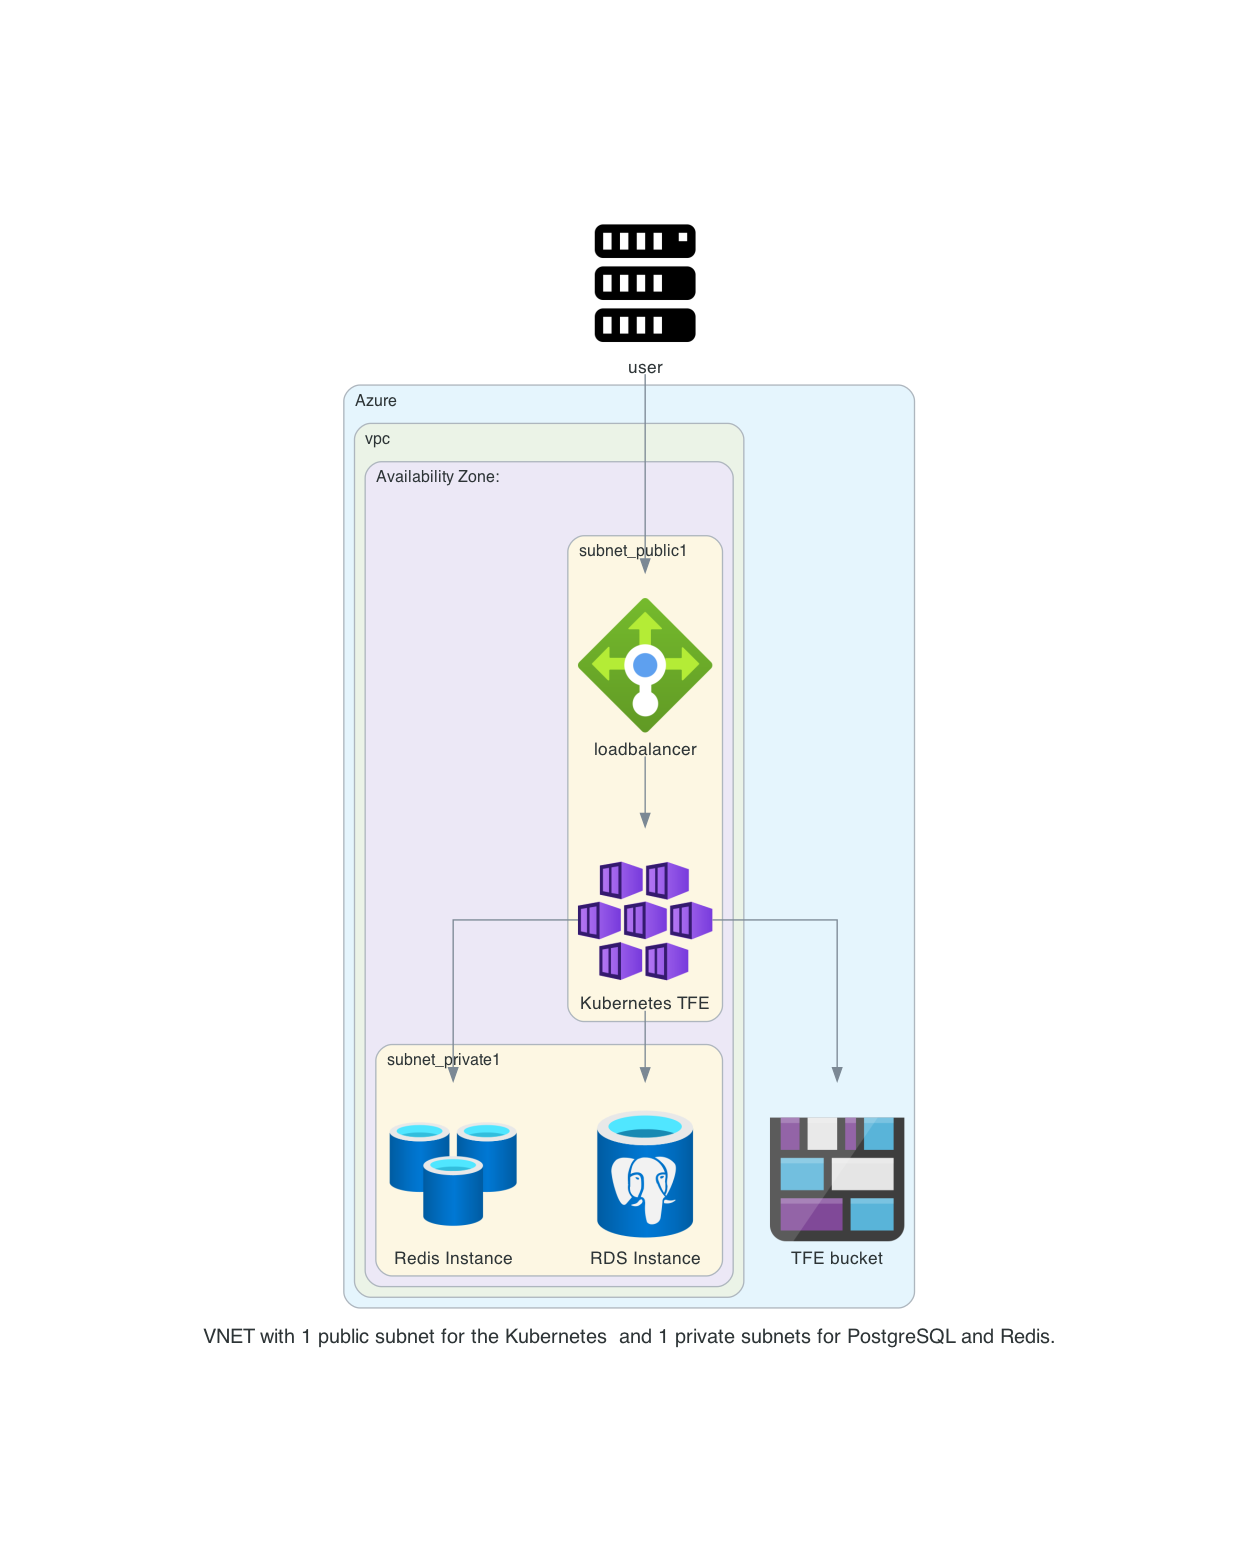
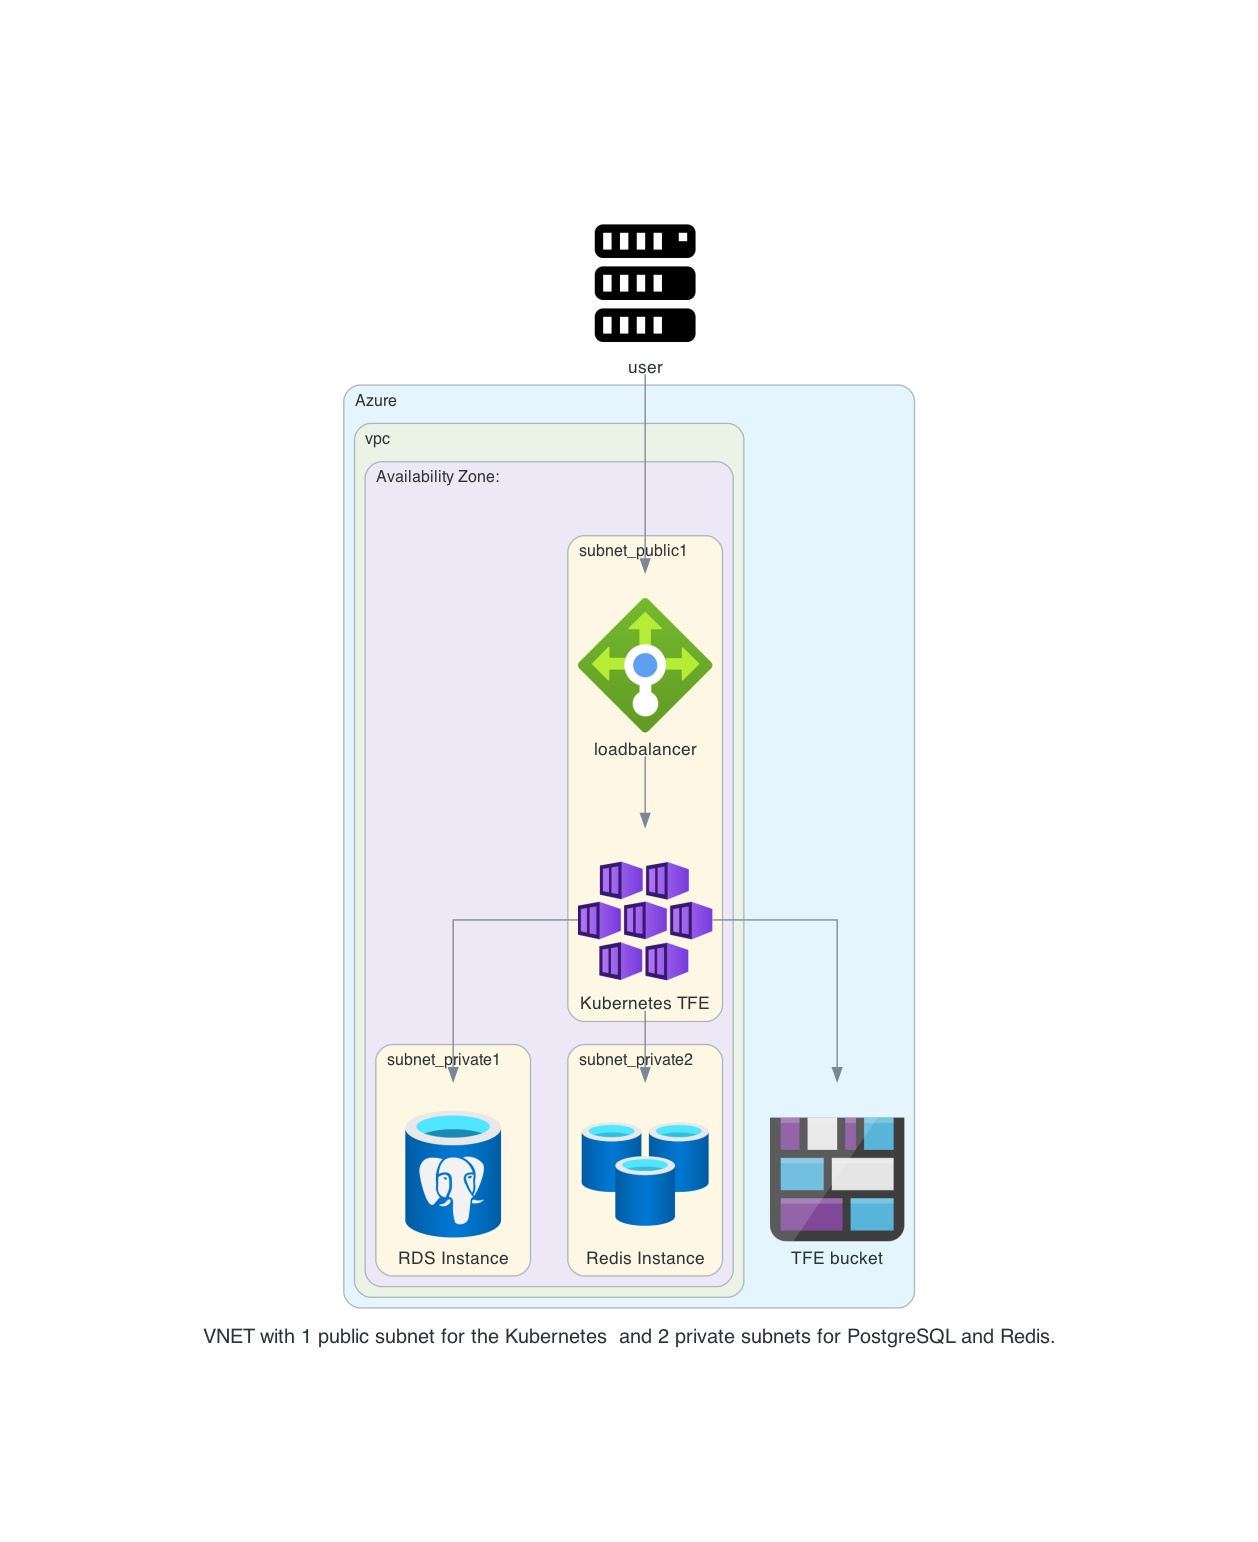
all the manual steps

Changed region(s): [[0.31, 0.6848, 0.589, 0.8405]]

diff --git a/diagram/diagram_tfe_fdo_azure_external_kubernetes.py b/diagram/diagram_tfe_fdo_azure_external_kubernetes.py
@@ -12,7 +12,7 @@ from diagrams.azure.network import LoadBalancers
 
 
 # Variables
-title = "VNET with 1 public subnet for the Kubernetes \ and 1 private subnets for PostgreSQL and Redis."
+title = "VNET with 1 public subnet for the Kubernetes \ and 2 private subnets for PostgreSQL and Redis."
 outformat = "png"
 filename = "diagram_tfe_fdo_azure_external_kubernetes"
 direction = "TB"
@@ -39,7 +39,8 @@ with Diagram(
                     Kubernetes_TFE = KubernetesServices("Kubernetes TFE")
                 with Cluster("subnet_private1"):
                      postgresql = DatabaseForPostgresqlServers("RDS Instance")
-                     Redis = CacheForRedis("Redis Instance")
+                with Cluster("subnet_private2"):
+                     Redis = CacheForRedis("Redis Instance")     
                
     # Diagram
 

diff --git a/manual_steps/README.md b/manual_steps/README.md
@@ -1,176 +1,187 @@
+# Manual steps
 
-# create a resource group
+These are the manual steps using the Azure Portal to create the Kubernetes environment where the TFE container can be deployed
 
-- Create a resource group where all the resources will fall under
-![](media/20221105164701.png)    
-![](media/20221105164714.png)    
-
-- Create a network 
-![](media/20221105164838.png)    
-![](media/20221105165042.png)    
-![](media/20221108092404.png)    
-![](media/20221105165638.png)    
-![](media/20221105165413.png)    
-![](media/20221105165510.png)    
-![](media/20221105165523.png)    
-![](media/20221105165757.png)    
-![](media/20221105165815.png)    
-
-- create an network security group   
-![](media/20221105171004.png)    
-![](media/20221105171114.png)    
-add some rules allow https, ssh and 8800 5432  
-![](media/20221105173023.png)    
-![](media/20221108093129.png)    
+## diagram
+Here is a diagram of what we create
 
 
 
+# Create the Azure infrastructure
+
+- Create a resource group where all the resources will fall under  
+![](media/20240123152619.png)   
+![](media/20240123152643.png)   
+
+- Create a network   
+![](media/20240123152737.png)  
+![](media/20240123152803.png)  
+![](media/20240123153251.png)   
+![](media/20240123153355.png)   
+
+
+- create an network security group     
+![](media/20240123153453.png)   
+![](media/20240123153504.png)   
+  - Go to the inbound security rules and add the following ports 
+    - 22 ssh
+    - 80 http
+    - 443 https
+    - 5432 postgresql
+    - 6379 redis non-ssl
+    - 6380 redis ssl    
+The overview should look like the following   
+![](media/20240123154517.png)   
 
 - create a NAT gateway   
-![](media/20221105171257.png)    
-![](media/20221105171326.png)   
-![](media/20221105171421.png)    
-![](media/20221105171441.png)    
+![](media/20240123154550.png)   
+![](media/20240123154611.png)   
+![](media/20240123154639.png)   
 
-- give all the subnets the network security group
-![](media/20221105171724.png)    
+- create subnets  
+public subnet  
+![](media/20240123154823.png)  
+private1 subnet  
+![](media/20240123154910.png)  
+![](media/20240123155716.png)  
+private2 subnet  
+![](media/20240123160428.png)  
+overview  
+![](media/20240123160458.png)   
 
 
-- PostgreSQL Flex  
-![](media/20221108093908.png)    
-![](media/20221108094039.png)    
-![](media/20221108094238.png)    
-![](media/20221108094951.png)    
-![](media/20221108095007.png)    
-![](media/20221108095023.png)    
+- PostgreSQL Flex   
+![](media/20240123155120.png)  
+![](media/20240123155140.png)  
+![](media/20240123155900.png)  
+![](media/20240123155814.png)   
+add a database called tfe  
+![](media/20240123164756.png)  
+
 
 - After the database is create you need to change the following because of this article https://support.hashicorp.com/hc/en-us/articles/4548903433235-Terraform-Enterprise-External-Services-mode-with-Azure-Database-for-PostgreSQL-Flexible-Server-Failed-to-Initialize-**Plugins**
-![](media/20221108103715.png)    
 Select CITEXT, HSTORE, and UUID-OSSP  
-![](media/20221108103911.png)  
+![](media/20240123161355.png)  
 Result should be    
-![](media/20221108103849.png)    
-![](media/20221108104017.png)    
+![](media/20240123161412.png)  
 
-
-
+- Redis Cache  
+![](media/20240123160556.png)  
+![](media/20240123160709.png)  
+![](media/20240123160729.png)  
+![](media/20240123160740.png)   
 
 - Storage account   
-![](media/20221108095517.png)    
-![](media/20221108095556.png)    
-![](media/20221108103508.png)    
-![](media/20221108103545.png)    
-![](media/20221108103602.png)    
-![](media/20221108103621.png)   
-![](media/20221108104339.png)     
+![](media/20240123161829.png)  
+![](media/20240123161912.png)  
+![](media/20240123162045.png)  
+![](media/20240123162108.png)  
+![](media/20240123162132.png)  
+![](media/20240123162148.png)  
+
+
 - create a container   
-![](media/20221108103950.png)    
-![](media/20221108104128.png)    
+![](media/20240123162725.png)   
 
-- Virtual machine   
-![](media/20221108111017.png)    
-![](media/20221108111334.png)    
-![](media/20221108111423.png)    
-![](media/20221108111513.png)    
-![](media/20221108111540.png)    
-![](media/20221108111552.png)    
-![](media/20221108111615.png)    
-![](media/20221108111653.png)    
+save the keys and all   
+![](media/20240123162822.png)   
 
-- Make the DNS endpoint to this server in AWS console
-![](media/20221108112137.png)    
+- Create the Azure Kubernetes Service   
+![](media/20240123162923.png)  
+![](media/20240123163009.png)   
+![](media/20240123163132.png)  
+![](media/20240123163152.png)  
+![](media/20240123163206.png)  
+![](media/20240123163231.png)  
 
-- login to the virtual machine
+# deploying the TFE helm chart 
 
+- Make sure you can connect to the Kubernetes cluster
 ```
-ssh azureuser@52.233.240.242
+az aks get-credentials --resource-group tfe11-manual --name tfe11
 ```
-
-On the machine execute the following
-
+- check that you see the pods from all namespace. This should give some results
 ```
-sudo systemctl stop apparmor
-sudo systemctl disable apparmor
-
-pushd /var/tmp
-curl -o install.sh https://install.terraform.io/ptfe/stable
-bash ./install.sh no-proxy private-address=10.233.1.4 public-address=52.233.240.242
+kubectl get pods -A
 ```
-
-- You will be prompted to go to the installation screen
-![](media/20221108113116.png)   
-![](media/20221108113202.png)    
-![](media/20221108113242.png)    
-![](media/20221108113440.png)    
-- Go the the settings
-![](media/20221108113700.png)    
-![](media/20221108113752.png)    
-![](media/20221108113918.png)    
-![](media/20221108114537.png)    
-![](media/20221108114610.png)    
-![](media/20221108114624.png)  
-
-- Try a test run in a workspace from directory test_code
-
-
-
-### same steps except with a load balancer
-
-- Loadbalancer in azure is called a application gateway
-https://medium.com/@t.tak/build-https-support-load-balancer-on-azure-81e111e58d98
-
-Application gateway requires extra ports to be opened
-![](media/20221119094144.png)    
-
-![](media/20221119094209.png)    
-![](media/20221119094236.png)    
-![](media/20221119094350.png)    
-![](media/20221119094403.png)    
-![](media/20221119094952.png)    
-![](media/20221119095103.png)    
-![](media/20221119095123.png)    
-![](media/20221119095242.png)    
-![](media/20221119095308.png)    
-![](media/20221119095326.png)    
-Er moet ook een correct health probe worden gemaakt    
-
-![](media/20221119134143.png)  
-![](media/20221119134214.png)    
-
-On the machine execute the following
-
+- create the namespace
 ```
-sudo systemctl stop apparmor
-sudo systemctl disable apparmor
-
-pushd /var/tmp
-curl -o install.sh https://install.terraform.io/ptfe/stable
-bash ./install.sh no-proxy private-address=10.233.11.4
+kubectl create namespace terraform-enterprise
 ```
+- create the docker secret
+```
+kubectl create secret docker-registry terraform-enterprise --docker-server=images.releases.hashicorp.com --docker-username=terraform --docker-password="license_content_from_hashicorp" -n terraform-enterprise
+```
+- Have the yaml file with the correct values
+```
+replicaCount: 1
+tls:
+  certData: "xxxxxxx=="
+  keyData: "xxxxxxxx=="
+  caCertData: "xxxxxxx=="
+image:
+  repository: images.releases.hashicorp.com
+  name: hashicorp/terraform-enterprise
+  tag: v202312-1
+env:
+  variables:
+    TFE_HOSTNAME: tfe11.aws.munnep.com
+    TFE_IACT_SUBNETS: "0.0.0.0/0"
 
-
-
-
-
-
-
-
-
-
-
-certificates uit key vault
-
-// pem to pfx - also password
-openssl pkcs12 -export -out certificate.pfx -inkey private_key_pem -in server.crt
-
-
-
-
-
-
-
-
-
-
-// pem to cer
-openssl x509 -inform PEM -in fullchain.pem -outform DER -out certificate.cer
+    # Database Settings
+    TFE_DATABASE_USER: tfe
+    TFE_DATABASE_PASSWORD: "xxxxxxx"
+    TFE_DATABASE_HOST: tfe11.postgres.database.azure.com
+    TFE_DATABASE_NAME: tfe
+    TFE_DATABASE_PARAMETERS: "sslmode=require"
+    
+    # Redis settings
+    TFE_REDIS_HOST: tfe11.redis.cache.windows.net:6379
+    TFE_REDIS_PASSWORD: xxxxx
+    TFE_REDIS_USE_AUTH: true
+    
+    # Object storage settings.
+    TFE_OBJECT_STORAGE_TYPE: "azure"
+    TFE_OBJECT_STORAGE_AZURE_ACCOUNT_NAME: patricktfe11manual
+    TFE_OBJECT_STORAGE_AZURE_CONTAINER: tfe11
+    TFE_OBJECT_STORAGE_AZURE_ACCOUNT_KEY: 
+  secrets:
+    TFE_DATABASE_PASSWORD: "xxxxxxx"
+    TFE_ENCRYPTION_PASSWORD:  "xxxxxx"
+    TFE_LICENSE: "your_license"
+```
+- install the helm chart 
+```
+helm install terraform-enterprise hashicorp/terraform-enterprise -n terraform-enterprise --values overrides.yaml
+```
+- After a few minutes the pod should be up and running
+```
+kubectl get pods -n terraform-enterprise --watch
+NAME                                    READY   STATUS              RESTARTS   AGE
+terraform-enterprise-64d7bc4b6b-2l9rt   0/1     ContainerCreating   0          16s
+terraform-enterprise-64d7bc4b6b-2l9rt   0/1     Running             0          26s
+terraform-enterprise-64d7bc4b6b-2l9rt   1/1     Running             0          2m51s
+```
+- This should also have created a loadbalancer. If not uninstall the helm chart and install it again. 
+```
+kubectl get services -n terraform-enterprise                              
+NAME                   TYPE           CLUSTER-IP    EXTERNAL-IP     PORT(S)         AGE
+terraform-enterprise   LoadBalancer   10.0.18.149   52.146.55.195   443:32625/TCP   67s
+```
+- Create an A records in you DNS to connect to the TFE environment   
+![](media/20240123171232.png)   
+- Connect to the environment on your url and see the login screen   
+![](media/20240123171414.png)   
+- Get the token to create the first admin user
+```
+kubectl exec -it terraform-enterprise-64d7bc4b6b-xdzgd -n terraform-enterprise -- tfectl admin token
[1 lines of base64/hex data omitted]
+```
+- Go to a browser with the token from above   
+https://tfe11.aws.munnep.com/admin/account/new?token=391ad31a26c7cccc2484ec3aea071782231486bdb79894d97bc32bff5af949ba
+- Fill in the following information  
+![](media/20240124084009.png)  
+- Now you can login and create a new organization
+![](media/20240124084035.png)
+- Create a workspace and do a run to verify all is working correctly  
+![](media/20240124084400.png)

diff --git a/code/README.md b/code/README.md
@@ -1,0 +1,3 @@
+# Why
+
+This is some template code to quickly test a workspace in the TFE created by the main repository
